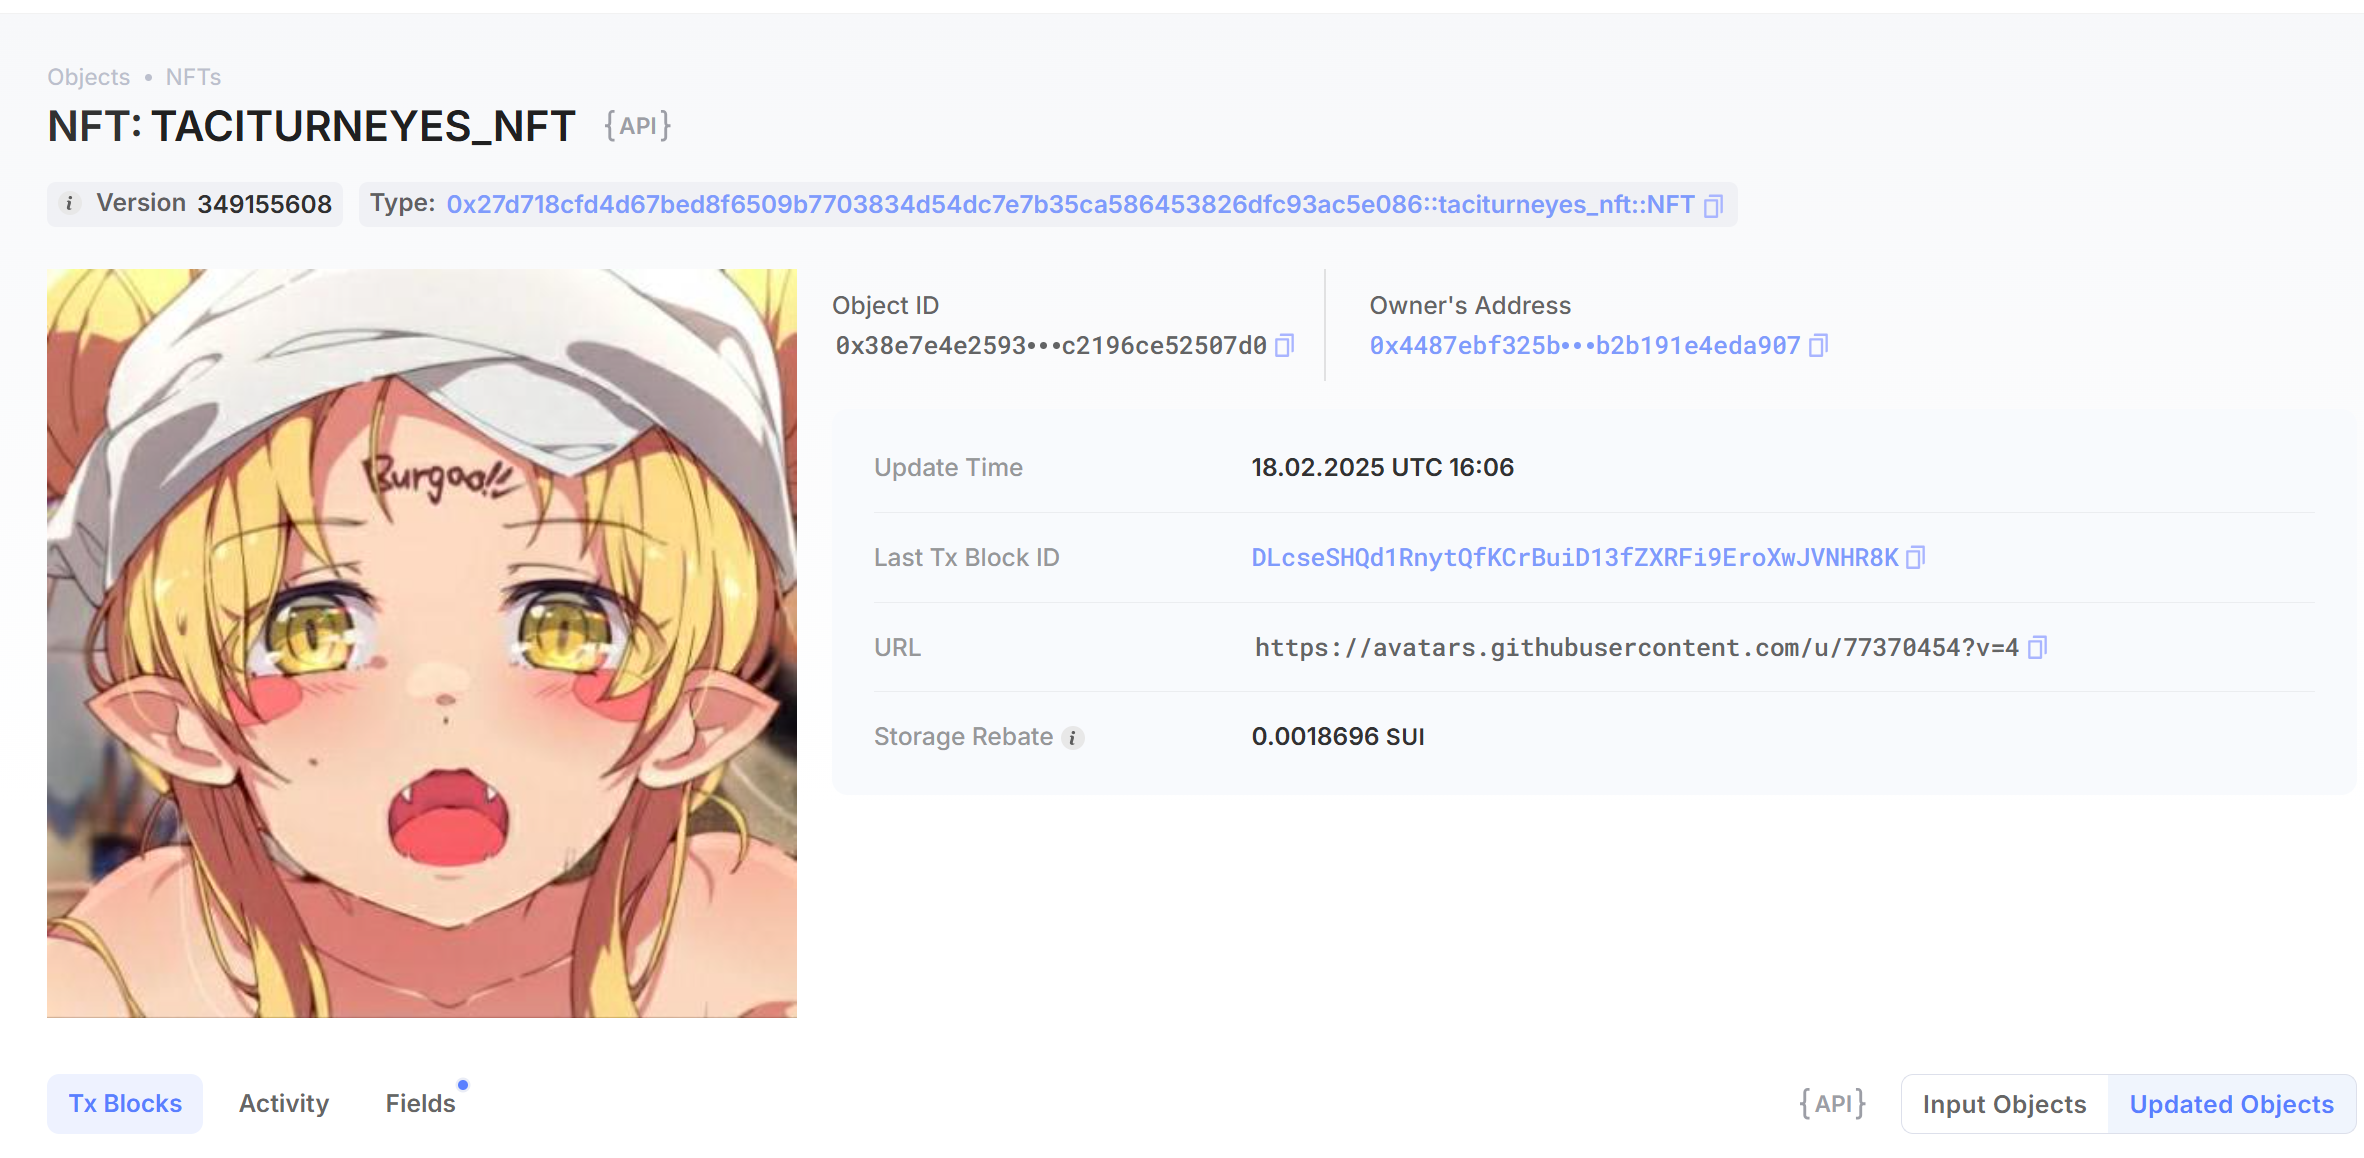
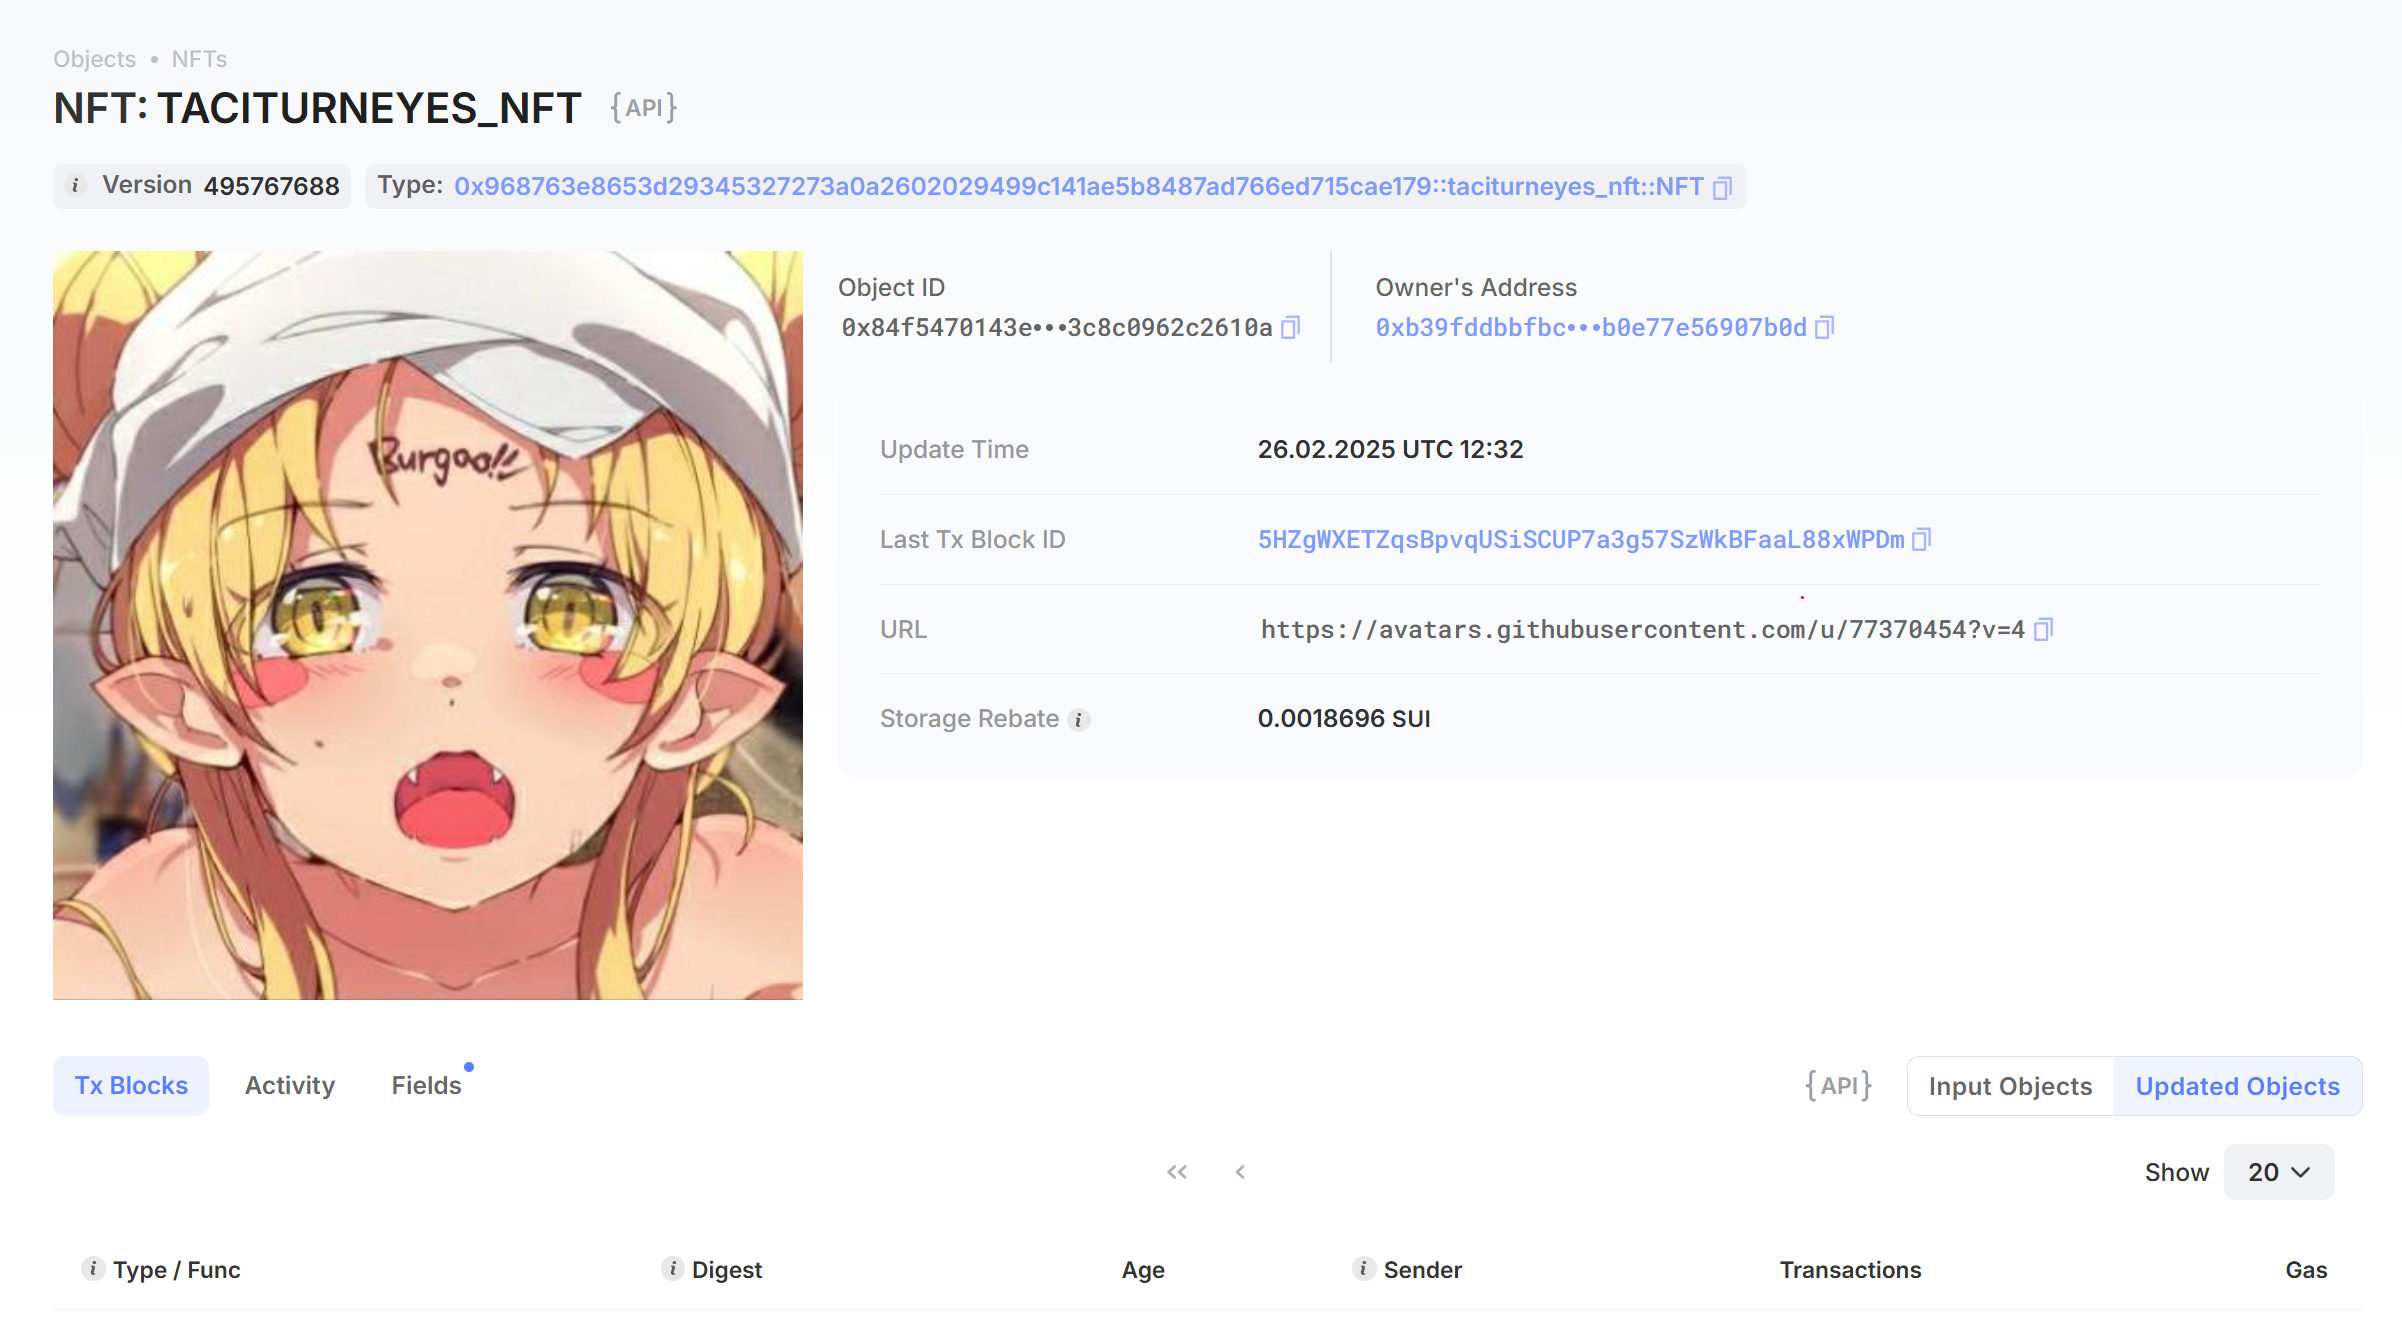
补充readme

diff --git a/mover/taciturn-eyes/readme.md b/mover/taciturn-eyes/readme.md
@@ -2,7 +2,7 @@
 
 - Sui 钱包地址: 0xb39fddbbfbc12a5a4e79c83fc9f56ee6b9ae996b24b77e0355b0e77e56907b0d
 
-> 首次参与需要完成第一个任务注册好钱包地址才被合并，并且后续学习奖励会打入这个地址
+  > 首次参与需要完成第一个任务注册好钱包地址才被合并，并且后续学习奖励会打入这个地址
 
 - github: [taciturn-eyes (Zk Jane)](https://github.com/taciturn-eyes)
 
@@ -30,24 +30,22 @@
 
 ## 02 move coin
 
-- [] My Coin package id :
-- [] Faucet package id :
-- [] 转账 `My Coin` hash:
-- [] `Faucet Coin` address1 mint hash:
-- [] `Faucet Coin` address2 mint hash:
+- [x] My Coin package id :0x3290c41936836a89671166cf4cec882bcac3db8cbef44758aa8f0eb123fe145c
+- [x] Faucet package id : 0x1cf5bf8d70c3d78d09752790bd18d2ae890cbecef841ea1675397b83dfba98d6
+- [x] 转账 `My Coin` hash: APoozx3ZLY7SCVtgmjZVmtQnDZ36ynRc5EnGfKv3REdK
+- [x] `Faucet Coin` address1 mint hash:27GJ9eP8xhnmHQu5LR3beD8Z9M4fqXtgKNiSQGUMYu8E
+- [x] `Faucet Coin` address2 mint hash:AzCVrHFf2pMoqzYy8PqSuVZRdN3mcmAPApzsk7Sj9erZ
 
 ## 03 move NFT
 
-- [] nft package id
-- [] nft object id
-- [] 转账 nft
-- [] scan 上的 NFT 截图:![Scan截图](./images/NFT.png)
-<!--
-- [x] nft package id :0x27d718cfd4d67bed8f6509b7703834d54dc7e7b35ca586453826dfc93ac5e086
-- [x] nft object id :0x38e7e4e259373f81af93585a37c063c0bdbc09e530f50a2c8ac2196ce52507d0
-- [x] 转账 nft hash:DLcseSHQd1RnytQfKCrBuiD13fZXRFi9EroXwJVNHR8K
+- [x] nft package id :0x968763e8653d29345327273a0a2602029499c141ae5b8487ad766ed715cae179
+- [x] nft object id :0x84f5470143ed89154d9a958ace5a547fa5b57340ca6cf22f483c8c0962c2610a
+- [x] 转账 nft hash:5HZgWXETZqsBpvqUSiSCUP7a3g57SzWkBFaaL88xWPDm
 - [x] scan 上的 NFT 截图:![Scan截图](./images/NFT.png)
-      -->
+<!--
+  给地址0x7b8e0864967427679b4e129f79dc332a885c6087ec9e187b53451a9006ee15f2
+  mint NFT 哈希：HX5Gzn77Sh3uL63RSLco4AvfPMhqDgvjDSRUR8CLxjLK
+ -->
 
 ## 04 Move Game
 
